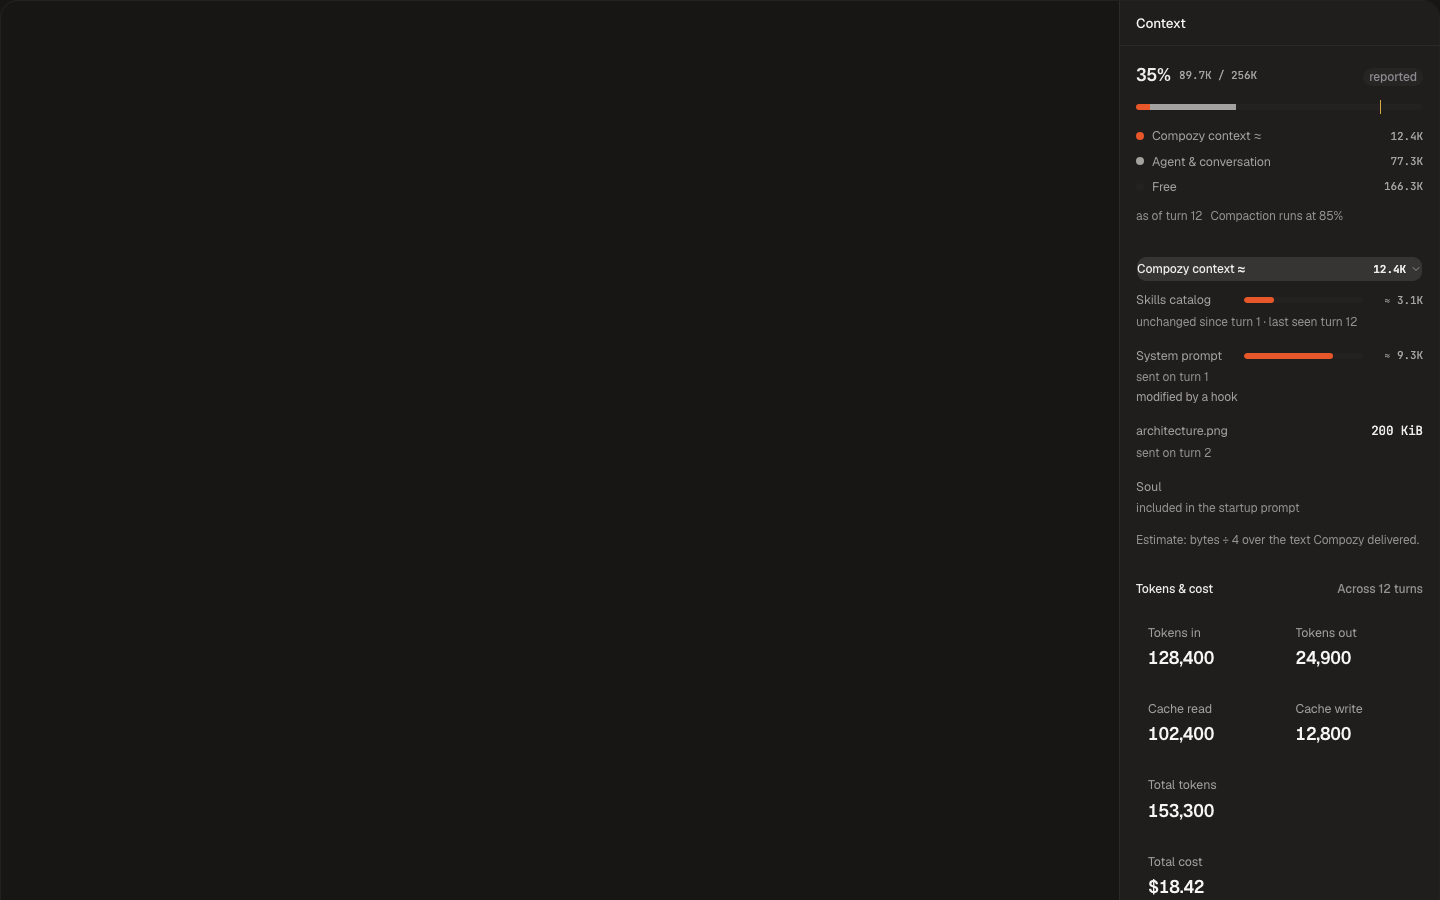
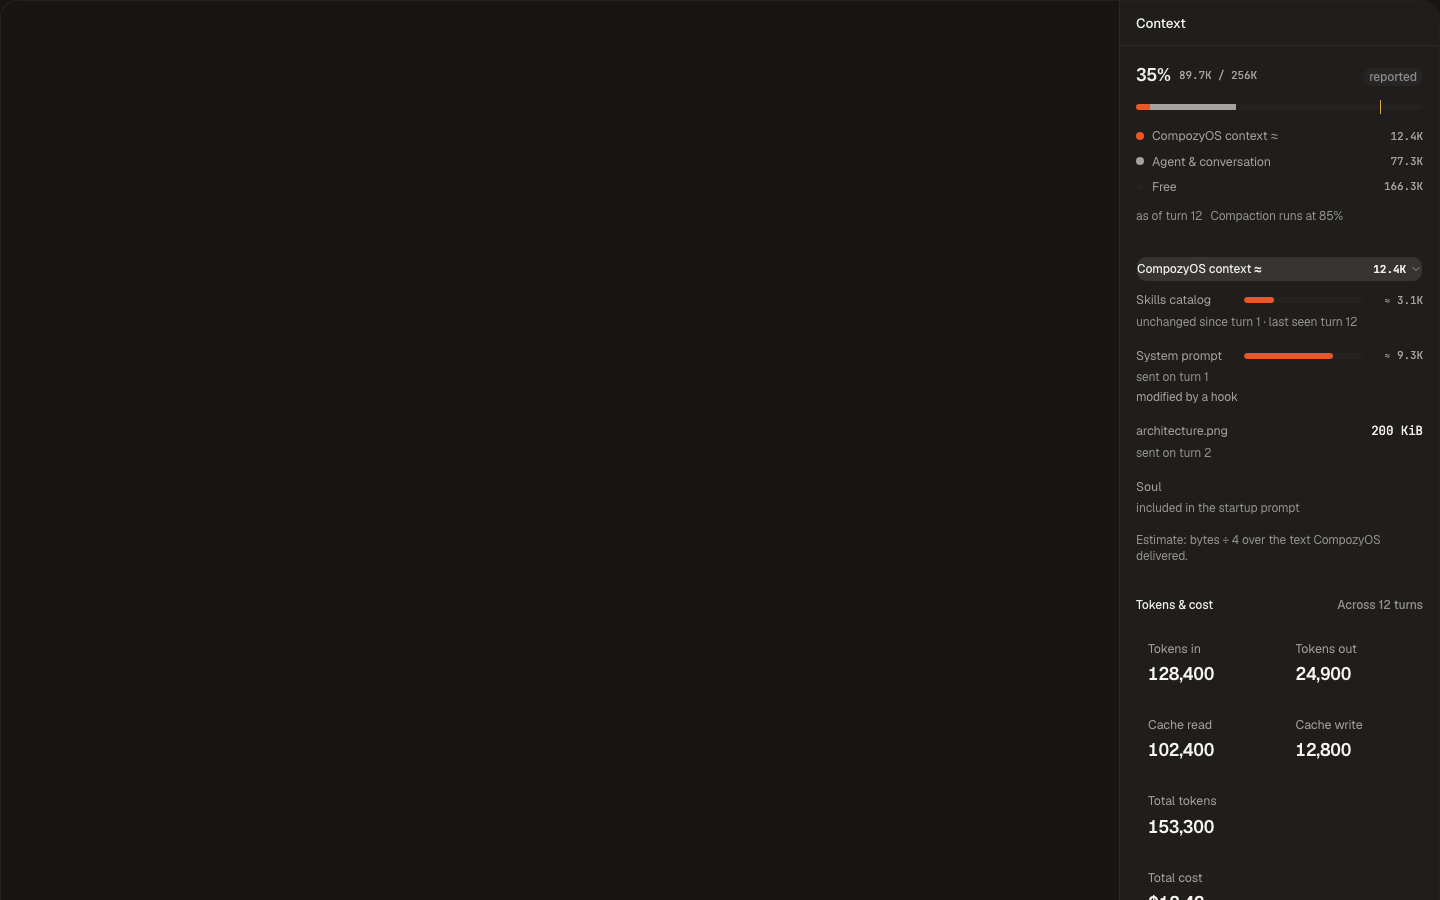
fix: use the current product name in session context

diff --git a/web/src/systems/session/components/__tests__/session-inspector.test.tsx b/web/src/systems/session/components/__tests__/session-inspector.test.tsx
@@ -327,7 +327,7 @@ describe("Session context", () => {
     expect(
       within(screen.getByTestId("session-context-meter")).queryByRole("img")
     ).not.toBeInTheDocument();
-    await user.click(screen.getByRole("button", { name: /Compozy context/ }));
+    await user.click(screen.getByRole("button", { name: /CompozyOS context/ }));
     const rows = screen.getAllByTestId("session-context-injected-row");
     expect(rows).toHaveLength(4);
     expect(
@@ -383,10 +383,10 @@ describe("Session context", () => {
     expect(rows[2]).toHaveTextContent("20K / 256K");
     expect(rows[3]).toHaveTextContent("10K / 256K");
     expect(screen.getAllByTestId("session-context-compaction")[0]).toHaveTextContent(
-      "Compozy compaction · at 88% · replay span not archived"
+      "CompozyOS compaction · at 88% · replay span not archived"
     );
     expect(screen.getAllByTestId("session-context-compaction")[1]).toHaveTextContent(
-      "Compozy compaction · at 85% · replay span archived"
+      "CompozyOS compaction · at 85% · replay span archived"
     );
     expect(screen.getByTestId("session-context-activity")).toHaveTextContent("Working for 49m 20s");
   });

diff --git a/web/src/systems/session/components/session-context-meter-section.tsx b/web/src/systems/session/components/session-context-meter-section.tsx
@@ -47,7 +47,7 @@ export function SessionContextMeterSection({ context }: { context: SessionContex
                   ariaLabel={`Context window: ${formatContextTokens(used)} of ${formatContextTokens(display.total)} used`}
                   total={display.total}
                   segments={[
-                    { value: display.compozy, tone: "accent", label: "Compozy context" },
+                    { value: display.compozy, tone: "accent", label: "CompozyOS context" },
                     { value: display.agent, tone: "neutral", label: "Agent & conversation" },
                   ]}
                 />
@@ -67,7 +67,7 @@ export function SessionContextMeterSection({ context }: { context: SessionContex
                   ...(context.injected
                     ? [
                         {
-                          label: "Compozy context ≈",
+                          label: "CompozyOS context ≈",
                           swatch: <PillDot tone="accent" size="md" />,
                           value: context.injected.tokens,
                           formattedValue: formatContextTokens(context.injected.tokens),

diff --git a/web/src/systems/session/components/session-context-injected-section.tsx b/web/src/systems/session/components/session-context-injected-section.tsx
@@ -76,7 +76,7 @@ export function SessionContextInjectedSection({
         <CollapsibleTrigger
           render={<Button variant="ghost" size="sm" className="w-full justify-between px-0" />}
         >
-          <Eyebrow>Compozy context ≈</Eyebrow>
+          <Eyebrow>CompozyOS context ≈</Eyebrow>
           <span className="ml-auto font-mono text-mono-id tabular-nums">
             {injected && rows.some(row => row.tokens != null)
               ? formatContextTokens(injected.tokens)
@@ -97,11 +97,11 @@ export function SessionContextInjectedSection({
               ))}
             </ul>
             <p className="pt-2 text-eyebrow text-subtle">
-              Estimate: bytes ÷ 4 over the text Compozy delivered.
+              Estimate: bytes ÷ 4 over the text CompozyOS delivered.
             </p>
           </CollapsibleContent>
         ) : (
-          <Empty icon={Layers} title="No Compozy context yet" />
+          <Empty icon={Layers} title="No CompozyOS context yet" />
         )}
       </Collapsible>
     </section>

diff --git a/web/src/systems/session/components/session-context-turns-section.tsx b/web/src/systems/session/components/session-context-turns-section.tsx
@@ -97,7 +97,7 @@ export function SessionContextTurnsSection({
             >
               <Minimize2 className="mt-0.5 size-3 shrink-0" />
               <span>
-                Compozy compaction · at {formatContextPercent(marker.pressure)} · replay span{" "}
+                CompozyOS compaction · at {formatContextPercent(marker.pressure)} · replay span{" "}
                 <span className={marker.span_archived ? undefined : "text-warning"}>
                   {marker.span_archived ? "archived" : "not archived"}
                 </span>

diff --git a/internal/cli/session_test.go b/internal/cli/session_test.go
@@ -2507,7 +2507,7 @@ func TestSessionUsageCommandPreservesCostProvenance(t *testing.T) {
 		if err != nil {
 			t.Fatal(err)
 		}
-		for _, want := range []string{"80 / 100", "Compozy compaction · at 85%", "replay span archived", "≈ 8 (unchanged)", "CACHE R", "CACHE W"} {
+		for _, want := range []string{"80 / 100", "CompozyOS compaction · at 85%", "replay span archived", "≈ 8 (unchanged)", "CACHE R", "CACHE W"} {
 			if !strings.Contains(stdout, want) {
 				t.Fatalf("missing turns %q in %s", want, stdout)
 			}

diff --git a/internal/cli/session_usage_turns.go b/internal/cli/session_usage_turns.go
@@ -66,7 +66,7 @@ func sessionUsageTurnRows(value contract.SessionUsageTurnsResponse) [][]string {
 			archived = "archived"
 		}
 		description := fmt.Sprintf(
-			"Compozy compaction · at %.0f%% · %d / %d · sequences %d–%d · replay span %s",
+			"CompozyOS compaction · at %.0f%% · %d / %d · sequences %d–%d · replay span %s",
 			marker.Pressure*100,
 			marker.ContextUsed,
 			marker.ContextSize,

diff --git a/internal/cli/session_usage_context.go b/internal/cli/session_usage_context.go
@@ -53,7 +53,7 @@ func sessionContextHuman(value contract.SessionContextPayload) string {
 		rows = append(
 			rows,
 			keyValue{
-				Label: "Compozy Sent",
+				Label: "CompozyOS Sent",
 				Value: fmt.Sprintf("≈ %d (%s)", value.Injected.Tokens, value.Injected.Estimate),
 			},
 		)

diff --git a/docs/qa/reports/2026-09-12-session-context.md b/docs/qa/reports/2026-09-12-session-context.md
@@ -49,6 +49,8 @@ The live lab and the subsequent bounded capture leg were shut down through the m
 
 Final runtime-image inspection exposed [opaque turn ID overflow](../bugs/BUG-20260912-context-turn-identifiers.md), absent from the numeric examples. The bounded column now truncates long identifiers while preserving full identity access and complete three-digit numeric labels. The real ID shape has its own VC08 story and capture. Four affected pairs were re-captured; the complete validator passes 44/44, root Turbo typecheck passes, and the second teardown is clean.
 
+The final CI product-language check required the current name CompozyOS in UI, CLI and documentation. COPY.md and the glossary own this naming disposition over the older board labels. The affected component captures were refreshed with the longer name; runtime calculations and public identifiers are unchanged.
+
 ## Retained review artifacts
 
 [Runtime evidence summary](../../design/generated/session-context/runtime-summary.json) records normalized surface parity, fixture counters, actual live cost and binary receipt facts, unknown rows, threshold omission and asynchronous archive truth. Original source captures remain in the lab.

diff --git a/skills/compozy/references/runtime-operations.md b/skills/compozy/references/runtime-operations.md
@@ -999,5 +999,5 @@ receipts. `context.injected` estimates text with `bytes_div_4`, retains full own
 sections, and reports binary attachment bytes without tokens. An opaque hook-replaced startup prompt
 has one System prompt owner. Treat `stale` as possible summarization after a reported context drop;
 a replay-compaction marker alone does not establish that. Use session events to inspect receipt
-send times and exact per-turn spans. These receipts cover Compozy-owned content, not the agent's
+send times and exact per-turn spans. These receipts cover CompozyOS-owned content, not the agent's
 private context, and a failed transport dispatch produces no receipt.
